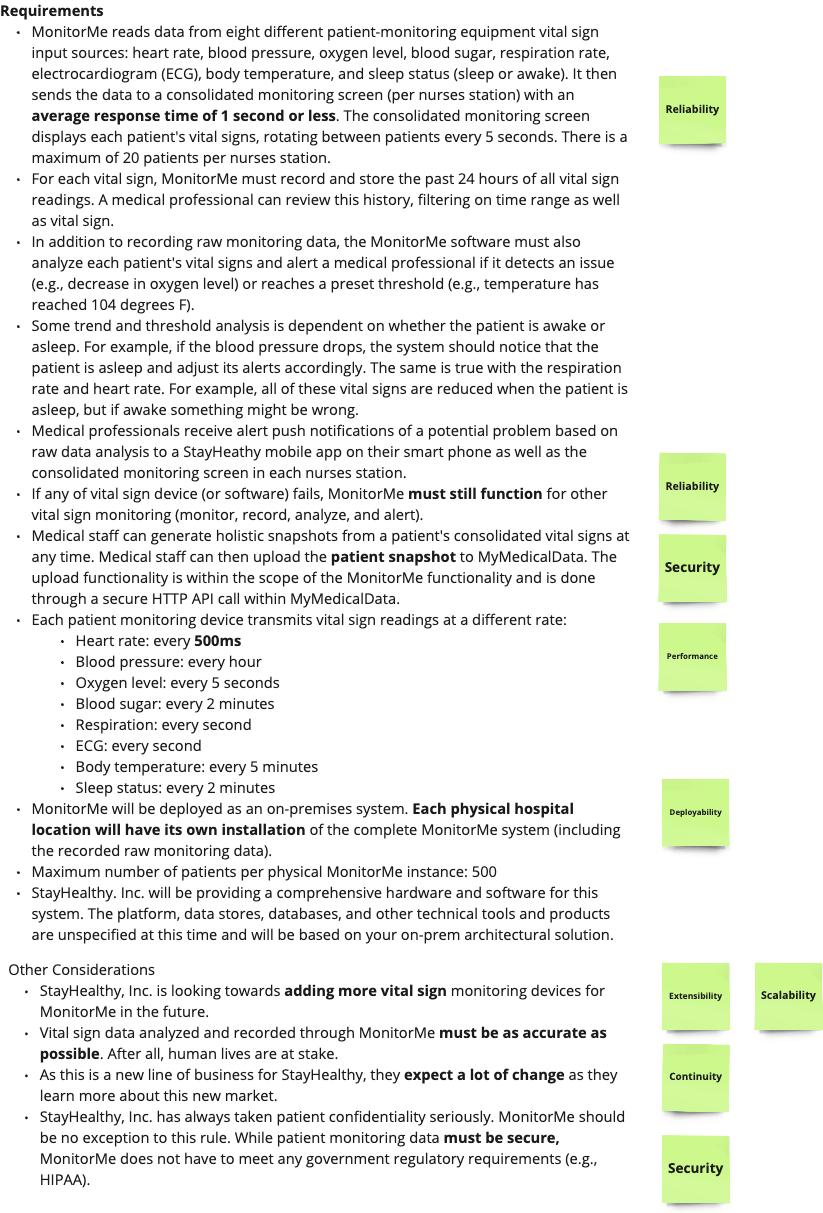
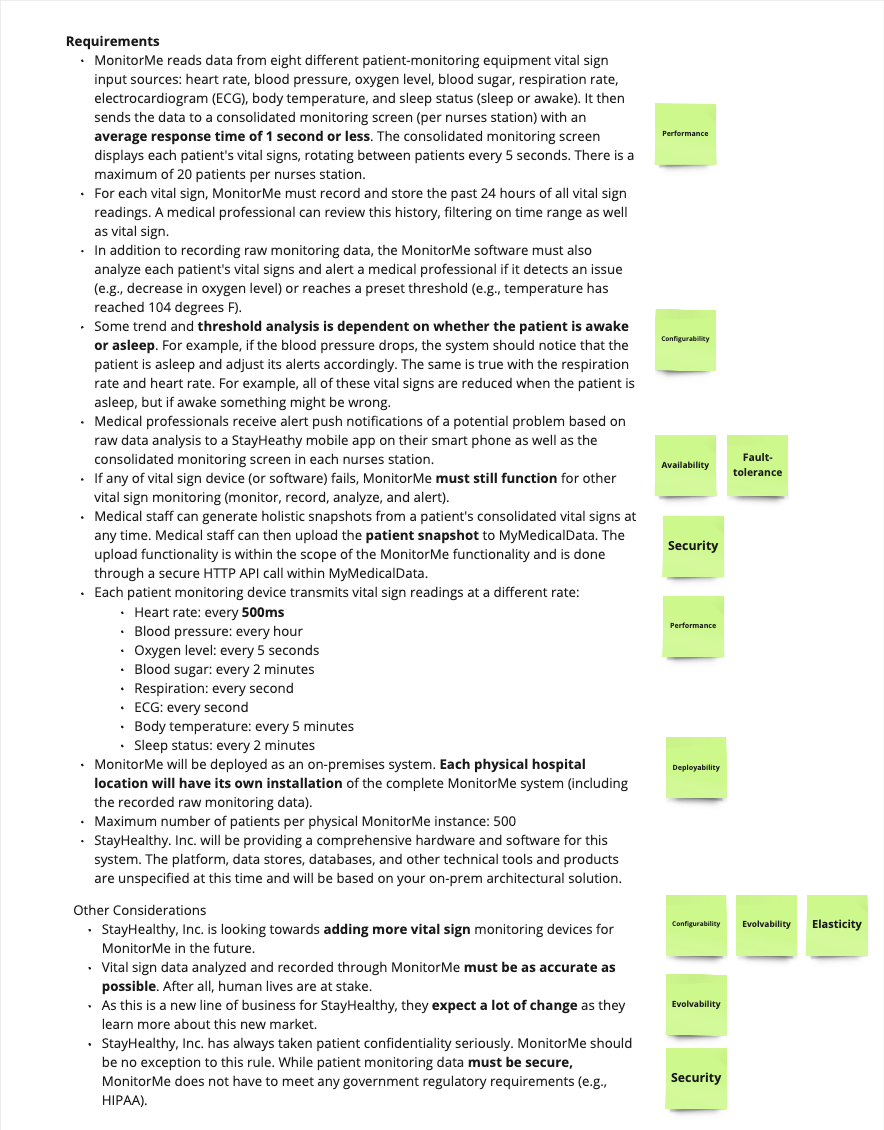
characteristics motivation - final

Changed region(s): [[0.0, 0.0, 1.0, 1.0]]

diff --git a/resources/characteristics.md b/resources/characteristics.md
@@ -5,26 +5,52 @@ To effectively select the appropriate architecture characteristics, it is essent
 
 <img src="images/characteristics.png" />
 
-# Top 7 architecture characteristics
+| Term            | Definition                                                                                                                                                                                                                                                                                                                                     |
+|-----------------|------------------------------------------------------------------------------------------------------------------------------------------------------------------------------------------------------------------------------------------------------------------------------------------------------------------------------------------------|
+| Availability    | Availability refers to the reliability and operational readiness of a building or space, ensuring it remains accessible and fully functional for its intended purpose, thus meeting the needs of occupants without significant interruptions or downtime, ultimately contributing to a seamless user experience.                               |
+| Evolvability    | Evolvability pertains to the adaptability and resilience of a building or space, facilitating its capacity to accommodate future changes in requirements, environments, or functions, thereby ensuring its continued relevance and effectiveness over time.                                                                                    |
+| Elasticity      | Elasticity refers to the dynamic adaptability of a building or space to fluctuating demands, allowing for flexible allocation of resources and scalable adjustments to meet changing needs, ensuring optimal performance and user satisfaction.                                                                                                |
+| Security        | Security encompasses the strategies, practices, and technologies designed to protect data and systems from unauthorized access, breaches, attacks, and other cyber threats. It involves ensuring data confidentiality, integrity, and availability, protecting against vulnerabilities, and complying with relevant regulations and standards. |
+| Deployability   | Deployability is the ease with which a software system can be deployed, updated, or migrated to different environments. It includes considerations for packaging, configuration, and installation processes. Systems with high deployability support rapid releases, easier updates, and minimal downtime.                                     |
+| Fault-tolerance | Fault-tolerance describes a building or space's ability to endure and recover from potential failures or disruptions, integrating redundant systems and resilient design elements to sustain functionality and safety, thereby guaranteeing uninterrupted operations and mitigating risks for occupants.                                       |
+| Performance     | Performance refers to a system's responsiveness, speed, and stability under a given load. It measures how quickly a system can process transactions, execute tasks, and deliver information to users. High performance contributes to a better user experience and efficiency in operations.                                                   |
+| Configurability | Configurability refers to the adaptiveness and versatility of a building or space to be easily reconfigured or customized according to changing needs or preferences, facilitating efficient utilization of space and enhancing user satisfaction by accommodating diverse requirements.                                                       |
+| Scalability   | Scalability refers to a system's ability to handle increased loads without compromising performance or user experience. This can involve scaling up (adding more resources to the existing infrastructure) or scaling out (adding more instances of resources). Scalability ensures that the system can grow in response to increased demand, whether it's handling more data, users, or transactions. |
 
-Architecture characteristics define key qualities of a software system that are crucial for meeting business objectives, technical requirements, and user expectations. Below are definitions for the specified architectural characteristics
-<img src="images/top7_characteristics.png" />
 
-| Term          | Definition                                                                                                                                                  |
-|---------------|-------------------------------------------------------------------------------------------------------------------------------------------------------------|
-| Scalability   | Scalability refers to a system's ability to handle increased loads without compromising performance or user experience. This can involve scaling up (adding more resources to the existing infrastructure) or scaling out (adding more instances of resources). Scalability ensures that the system can grow in response to increased demand, whether it's handling more data, users, or transactions.|
-| Reliability   | Reliability is the measure of a system's uptime and its ability to perform its required functions under stated conditions for a specified time. It encompasses the system's ability to recover from failures, maintain data integrity, and operate continuously without significant downtime or data loss. |
-| Security      | Security encompasses the strategies, practices, and technologies designed to protect data and systems from unauthorized access, breaches, attacks, and other cyber threats. It involves ensuring data confidentiality, integrity, and availability, protecting against vulnerabilities, and complying with relevant regulations and standards.|
-| Performance   | Performance refers to a system's responsiveness, speed, and stability under a given load. It measures how quickly a system can process transactions, execute tasks, and deliver information to users. High performance contributes to a better user experience and efficiency in operations. |
-| Deployability | Deployability is the ease with which a software system can be deployed, updated, or migrated to different environments. It includes considerations for packaging, configuration, and installation processes. Systems with high deployability support rapid releases, easier updates, and minimal downtime. |
-| Extensibility | Extensibility is the ability of a system to accommodate changes or add new functionalities without significant modifications to the existing codebase. It involves designing the system in a modular way, with well-defined interfaces and flexible components, so that it can evolve over time to meet changing business needs. |
-| Continuity    |  Continuity, often referred to in the context of business continuity, is the system's ability to continue operating and providing essential functions, even in the face of disruptions, failures, or disasters. It involves planning for redundancy, failover mechanisms, data backups, and disaster recovery processes to ensure the system remains operational under adverse conditions.                                                                                               |
+# Choosing the Top 7 characteristics
+The primary considerations that should be prioritized are as follows:
+* *Performance*, given the stringent demands from the business.
+* *Security*, particularly crucial in a hospital setting where the system manages highly sensitive data.
+* *Availability*, as the system directly impacts human lives and must be continuously monitored.
+* *Evolvability*, allowing for the seamless integration of new sensors and devices.
+* *Elasticity*, as additional sensors may necessitate additional nodes or hardware.
+* *Fault-tolerance*, ensuring system functionality even in scenarios where certain sensors may be non-operational.
+* *Configurability*, because the alert's rules should be configurable.
+
+
+The importance of *Scalability* has been downplayed as the maximum load has already been defined. In the event of adding new sensors, the system can be manually rescaled by incorporating additional nodes or hardware.
+Regarding *Deployability*, its significance is diminished as the system will be installed only once per hospital, without the need for migrations.
+
 
 # Finding top3 architecture characteristics
-The subsequent step involves tagging identified software and hardware components, placing sticky notes where the characteristic is necessary. 
+On the Event storming session, there were discovered 4 logic modules of *MonitorMe* application:
 
-<img src="images/characteristics_vs_modules.png">
+<img src="images/4components.png" />
 
-# Top3 architecture characteristics
+The subsequent step involves tagging identified components, placing sticky notes where the characteristic is necessary. 
 
-<img src="images/top3_final.png" />
+<img src="images/components-sticky-cards.png">
+
+As shown in the picture above, certain characteristics are significant only for individual modules, such as *Security*, *Fault-tolerance*, and *Configurability*. 
+Among the remaining four characteristics:
+* *Availability*
+* *Evolvability*
+* *Performance*
+* *Elasticity*
+
+it is challenging to narrow down to only three characteristics, but it is important to note that *Availability* is contingent upon both *Performance* and *Elasticity*. 
+If both are satisfactory, the system should remain available. Consequently, the final Top 3 are *Evolvability*, *Performance*, and *Elasticity*.
+
+
+<img src="images/top3-final.png" />

diff --git a/README.md b/README.md
@@ -41,7 +41,7 @@ The Business Requirements and Event Storming results have led us to delve deeper
 Choosing the right architectural characteristics is a critical process that lays the foundation for designing an effective architecture and defining efficient data flow within a system. By carefully considering these characteristics, one can determine the most suitable software and hardware components to effectively fulfill the system requirements. This ensures not only the proper functioning of the system but also its scalability, maintainability, and overall performance.
 Based on the requirements and our expertise, the following top three characteristics have been identified:
 
-<img src="resources/images/top3_characteristics.png">
+<img src="resources/images/top3-characteristics.png">
 
 ## Choosing the architecture
 Having identified the top three driving characteristics, we can simply choose the architecture style that best fits our business case.
